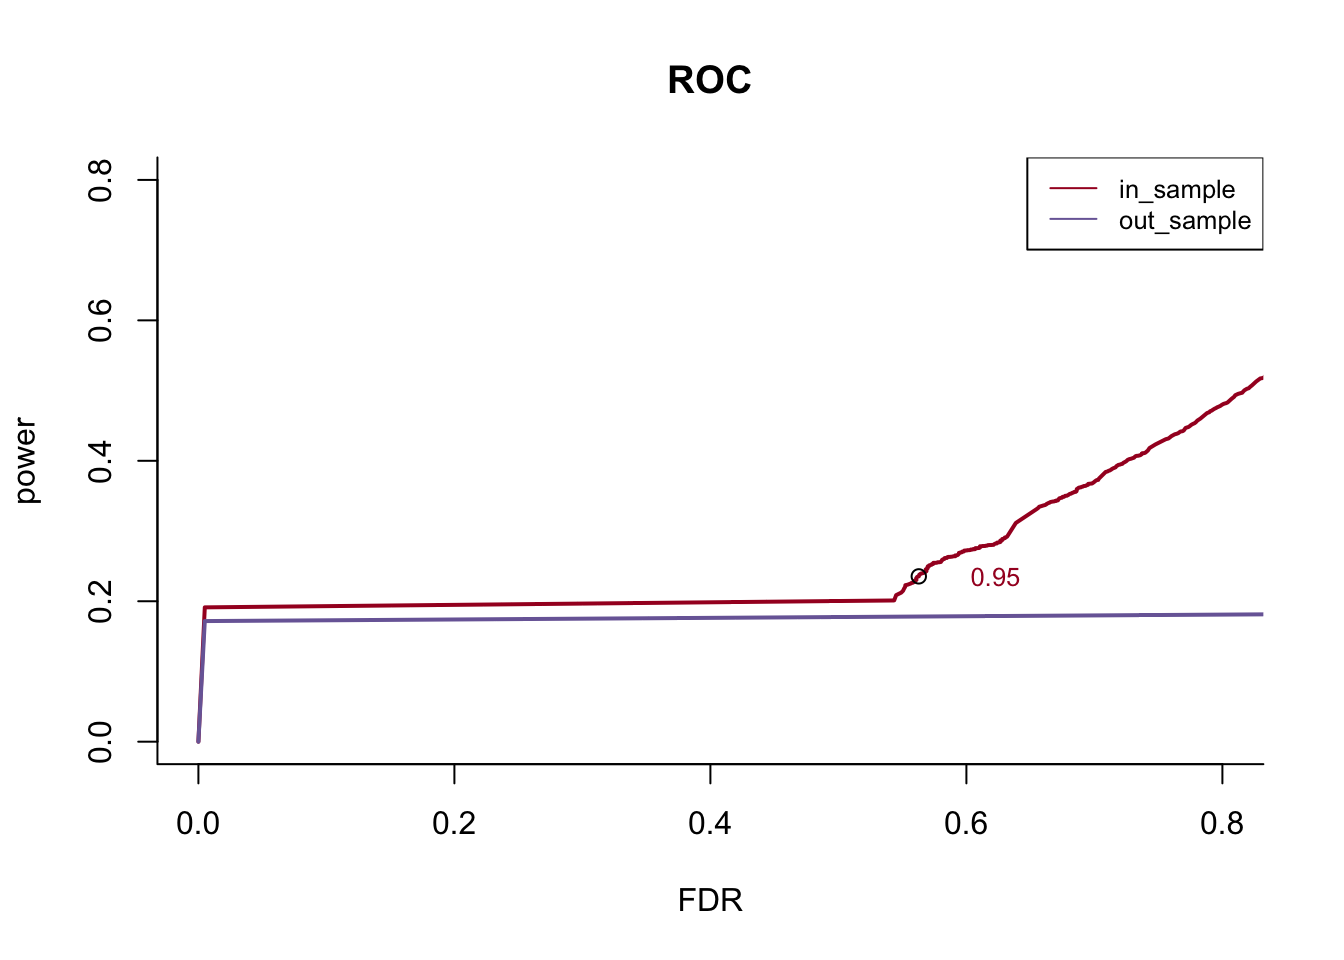
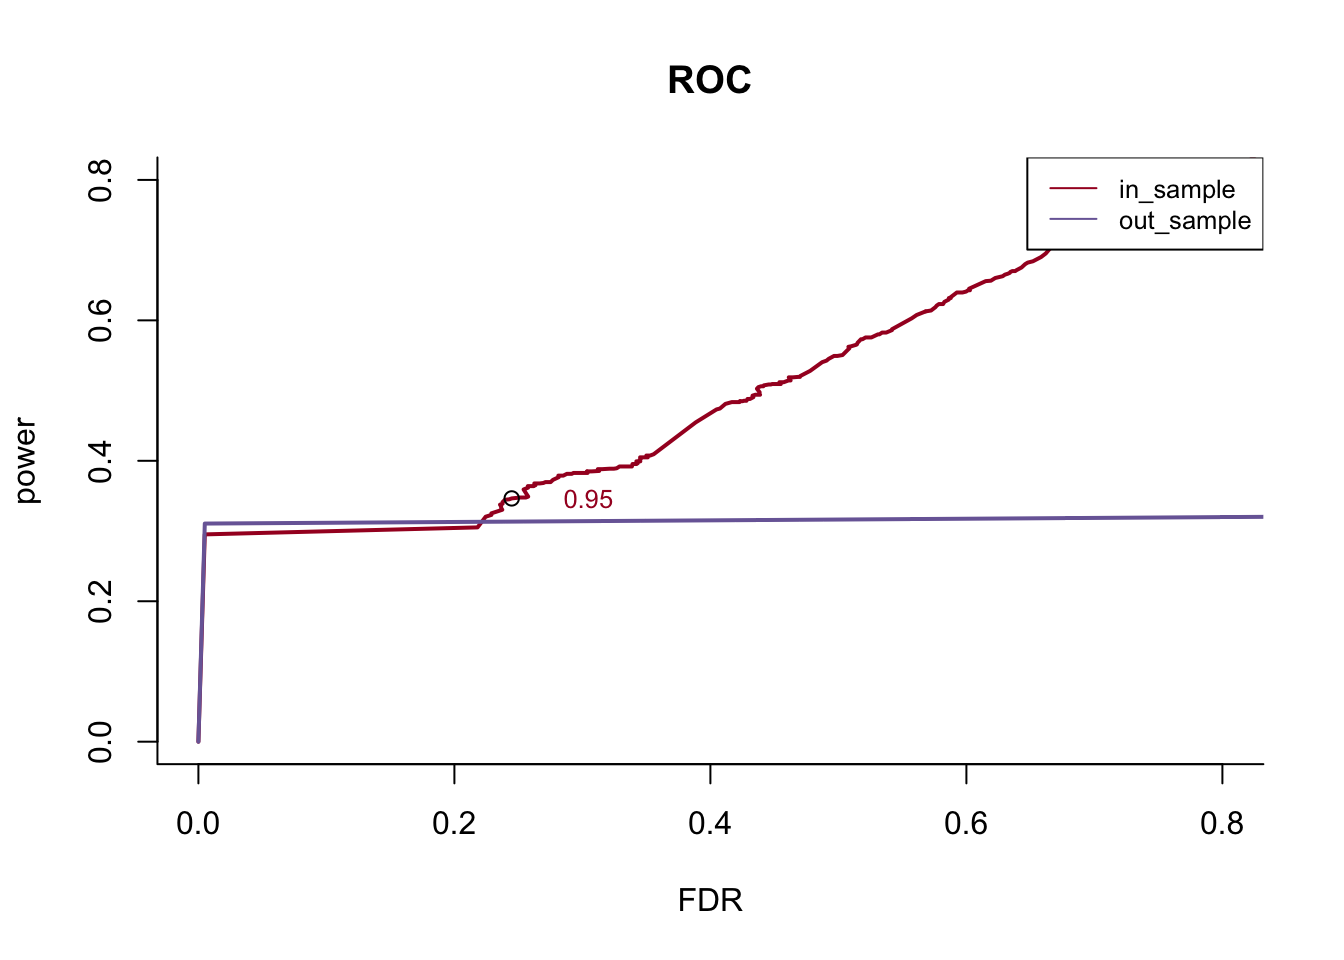
Build site.

diff --git a/docs/r_compare_susieb_ROC.html b/docs/r_compare_susieb_ROC.html
@@ -460,7 +460,7 @@ div.section {
 </details>
 </li>
 <li>
-<p><details> <summary> <strong style="color:blue;">✔</strong> <strong>Repository version:</strong> <a href="https://github.com/zouyuxin/dsc-susie-z/tree/c37add9f4b0fc8d2680950e6deae7c7e7c7fd239" target="_blank">c37add9</a> </summary></p>
+<p><details> <summary> <strong style="color:blue;">✔</strong> <strong>Repository version:</strong> <a href="https://github.com/zouyuxin/dsc-susie-z/tree/e5fce45c623ea82064c0baa0f5725b81efa383f7" target="_blank">e5fce45</a> </summary></p>
 Great! You are using Git for version control. Tracking code development and connecting the code version to the results is critical for reproducibility. The version displayed above was the version of the Git repository at the time these results were generated. <br><br> Note that you need to be careful to ensure that all relevant files for the analysis have been committed to Git prior to generating the results (you can use <code>wflow_publish</code> or <code>wflow_git_commit</code>). workflowr only checks the R Markdown file, but you know if there are other scripts or data files that it depends on. Below is the status of the Git repository when the results were generated:
 <pre><code>
 Ignored files:
@@ -490,7 +490,6 @@ Untracked files:
     Untracked:  data/small_data_69.ld_out_file.out.ld
     Untracked:  data/small_data_69_sim_gaussian_3.rds
     Untracked:  data/small_data_69_sim_gaussian_3_get_sumstats_1.rds
-    Untracked:  docs/figure/r_compare_finemap.Rmd/
     Untracked:  docs/figure/test.Rmd/
     Untracked:  figure/
     Untracked:  output/dscoutProblem475.rds
@@ -552,6 +551,40 @@ Message
 Rmd
 </td>
 <td style="text-align:left;">
+<a href="https://github.com/zouyuxin/dsc-susie-z/blob/e5fce45c623ea82064c0baa0f5725b81efa383f7/analysis/r_compare_susieb_ROC.Rmd" target="_blank">e5fce45</a>
+</td>
+<td style="text-align:left;">
+zouyuxin
+</td>
+<td style="text-align:left;">
+2019-04-15
+</td>
+<td style="text-align:left;">
+wflow_publish(c(“analysis/r_compare_susieb_ROC.Rmd”, “analysis/r_compare_susierss_ROC.Rmd”))
+</td>
+</tr>
+<tr>
+<td style="text-align:left;">
+html
+</td>
+<td style="text-align:left;">
+<a href="https://cdn.rawgit.com/zouyuxin/dsc-susie-z/c28dada96ebd2f7a2f1b9acb375a5b07f80cfc30/docs/r_compare_susieb_ROC.html" target="_blank">c28dada</a>
+</td>
+<td style="text-align:left;">
+zouyuxin
+</td>
+<td style="text-align:left;">
+2019-04-15
+</td>
+<td style="text-align:left;">
+Build site.
+</td>
+</tr>
+<tr>
+<td style="text-align:left;">
+Rmd
+</td>
+<td style="text-align:left;">
 <a href="https://github.com/zouyuxin/dsc-susie-z/blob/c37add9f4b0fc8d2680950e6deae7c7e7c7fd239/analysis/r_compare_susieb_ROC.Rmd" target="_blank">c37add9</a>
 </td>
 <td style="text-align:left;">
@@ -577,6 +610,7 @@ Attaching package: &#39;cowplot&#39;</code></pre>
 <pre><code>The following object is masked from &#39;package:ggplot2&#39;:
 
     ggsave</code></pre>
+<p>From previous result, we see FDR for cases with more than 1 signal is too high. Therefore, we only use the data with 1 signal here.</p>
 <pre class="r"><code>dscout = readRDS(&#39;output/r_compare_susiepip_tibble.rds&#39;)
 dscout$method = rep(NA, nrow(dscout))
 dscout$method[!is.na(dscout$susie_z.ld_method)] = &#39;susie_rss&#39;
@@ -591,14 +625,9 @@ colnames(dscout) = c(&#39;DSC&#39;, &#39;meta&#39;, &#39;pve&#39;, &#39;n_signal
 <pre class="r"><code>dscout.susieb = dscout[dscout$method == &#39;susie_b&#39;,]
 dscout.equal.susieb = dscout.susieb[dscout.susieb$effect_weight == &#39;equal&#39;,]
 dscout.equal.susieb.suc = dscout.equal.susieb[!is.na(dscout.equal.susieb$converged),]
+dscout.equal.susieb.suc = dscout.equal.susieb.suc[dscout.equal.susieb.suc$n_signal ==1,]
 dscout.equal.susieb.suc.list = list(&#39;in_sample&#39; = dscout.equal.susieb.suc[dscout.equal.susieb.suc$ld_method == &#39;in_sample&#39;,],
-                                    &#39;out_sample&#39; = dscout.equal.susieb.suc[dscout.equal.susieb.suc$ld_method == &#39;out_sample&#39;,])
-
-dscout.susierss = dscout[dscout$method == &#39;susie_rss&#39;,]
-dscout.equal.susierss = dscout.susierss[dscout.susierss$effect_weight == &#39;equal&#39;,]
-dscout.equal.susierss.suc = dscout.equal.susierss[dscout.equal.susierss$converged==1,]
-dscout.equal.susierss.suc.list = list(&#39;in_sample&#39; = dscout.equal.susierss.suc[dscout.equal.susierss.suc$ld_method == &#39;in_sample&#39;,],
-                                      &#39;out_sample&#39; = dscout.equal.susierss.suc[dscout.equal.susierss.suc$ld_method == &#39;out_sample&#39;,])</code></pre>
+                                    &#39;out_sample&#39; = dscout.equal.susieb.suc[dscout.equal.susieb.suc$ld_method == &#39;out_sample&#39;,])</code></pre>
 <pre class="r"><code>dat.susieb = list(&#39;in_sample&#39;=matrix(NA, 0, 2), &#39;out_sample&#39;=matrix(NA, 0, 2))
 for(method in names(dat.susieb)){
   for(j in 1:nrow(dscout.equal.susieb.suc.list[[method]])){
@@ -608,18 +637,9 @@ for(method in names(dat.susieb)){
   colnames(dat.susieb[[method]]) = c(&#39;pip&#39;, &#39;truth&#39;)
 }
 
-dat.susierss = list(&#39;in_sample&#39;=matrix(NA, 0, 2), &#39;out_sample&#39;=matrix(NA, 0, 2))
-for(method in names(dat.susierss)){
-  for(j in 1:nrow(dscout.equal.susierss.suc.list[[method]])){
-    datj = cbind(dscout.equal.susierss.suc.list[[method]]$pip[[j]], dscout.equal.susierss.suc.list[[method]]$meta[[j]]$true_coef)
-    dat.susierss[[method]] = rbind(dat.susierss[[method]], datj)
-  }
-  colnames(dat.susierss[[method]]) = c(&#39;pip&#39;, &#39;truth&#39;)
-}
-
-saveRDS(dat.susieb, &#39;output/r_compare_susieb_PIP_ROC.rds&#39;)
-saveRDS(dat.susierss, &#39;output/r_compare_susierss_PIP_ROC.rds&#39;)</code></pre>
-<pre class="r"><code>dat = readRDS(&#39;output/r_compare_susieb_PIP_ROC.rds&#39;)</code></pre>
+# saveRDS(dat.susieb, &#39;output/r_compare_susieb_PIP_ROC.rds&#39;)</code></pre>
+<pre class="r"><code># dat = readRDS(&#39;output/r_compare_susieb_PIP_ROC.rds&#39;)
+dat = dat.susieb</code></pre>
 <pre class="r"><code>bin_size = 20
 bins = cbind(seq(1:bin_size)/bin_size-1/bin_size, seq(1:bin_size)/bin_size)
 
@@ -658,7 +678,67 @@ for(Rtype in names(pip_cali)){
   g = dot_plot(pip_cali[[Rtype]]) + ggtitle(Rtype)
   print(g)
 }</code></pre>
-<p><img src="figure/r_compare_susieb_ROC.Rmd/unnamed-chunk-8-1.png" width="672" style="display: block; margin: auto;" /><img src="figure/r_compare_susieb_ROC.Rmd/unnamed-chunk-8-2.png" width="672" style="display: block; margin: auto;" /></p>
+<p><img src="figure/r_compare_susieb_ROC.Rmd/unnamed-chunk-8-1.png" width="672" style="display: block; margin: auto;" /></p>
+<details> <summary><em>Expand here to see past versions of unnamed-chunk-8-1.png:</em></summary>
+<table style="border-collapse:separate; border-spacing:5px;">
+<thead>
+<tr>
+<th style="text-align:left;">
+Version
+</th>
+<th style="text-align:left;">
+Author
+</th>
+<th style="text-align:left;">
+Date
+</th>
+</tr>
+</thead>
+<tbody>
+<tr>
+<td style="text-align:left;">
+<a href="https://github.com/zouyuxin/dsc-susie-z/blob/c28dada96ebd2f7a2f1b9acb375a5b07f80cfc30/docs/figure/r_compare_susieb_ROC.Rmd/unnamed-chunk-8-1.png" target="_blank">c28dada</a>
+</td>
+<td style="text-align:left;">
+zouyuxin
+</td>
+<td style="text-align:left;">
+2019-04-15
+</td>
+</tr>
+</tbody>
+</table>
+<p></details> <img src="figure/r_compare_susieb_ROC.Rmd/unnamed-chunk-8-2.png" width="672" style="display: block; margin: auto;" /></p>
+<details> <summary><em>Expand here to see past versions of unnamed-chunk-8-2.png:</em></summary>
+<table style="border-collapse:separate; border-spacing:5px;">
+<thead>
+<tr>
+<th style="text-align:left;">
+Version
+</th>
+<th style="text-align:left;">
+Author
+</th>
+<th style="text-align:left;">
+Date
+</th>
+</tr>
+</thead>
+<tbody>
+<tr>
+<td style="text-align:left;">
+<a href="https://github.com/zouyuxin/dsc-susie-z/blob/c28dada96ebd2f7a2f1b9acb375a5b07f80cfc30/docs/figure/r_compare_susieb_ROC.Rmd/unnamed-chunk-8-2.png" target="_blank">c28dada</a>
+</td>
+<td style="text-align:left;">
+zouyuxin
+</td>
+<td style="text-align:left;">
+2019-04-15
+</td>
+</tr>
+</tbody>
+</table>
+<p></details></p>
 </div>
 <div id="roc" class="section level2">
 <h2>ROC</h2>
@@ -733,6 +813,36 @@ for (method in names(roc)) {
 }
 legend(&quot;topright&quot;, legend=labels, col=colors[1:i], lty=c(1,1,1), cex=0.8)</code></pre>
 <p><img src="figure/r_compare_susieb_ROC.Rmd/unnamed-chunk-10-1.png" width="672" style="display: block; margin: auto;" /></p>
+<details> <summary><em>Expand here to see past versions of unnamed-chunk-10-1.png:</em></summary>
+<table style="border-collapse:separate; border-spacing:5px;">
+<thead>
+<tr>
+<th style="text-align:left;">
+Version
+</th>
+<th style="text-align:left;">
+Author
+</th>
+<th style="text-align:left;">
+Date
+</th>
+</tr>
+</thead>
+<tbody>
+<tr>
+<td style="text-align:left;">
+<a href="https://github.com/zouyuxin/dsc-susie-z/blob/c28dada96ebd2f7a2f1b9acb375a5b07f80cfc30/docs/figure/r_compare_susieb_ROC.Rmd/unnamed-chunk-10-1.png" target="_blank">c28dada</a>
+</td>
+<td style="text-align:left;">
+zouyuxin
+</td>
+<td style="text-align:left;">
+2019-04-15
+</td>
+</tr>
+</tbody>
+</table>
+<p></details></p>
 </div>
 <div id="session-information" class="section level2">
 <h2>Session information</h2>

diff --git a/docs/r_compare_susierss_ROC.html b/docs/r_compare_susierss_ROC.html
@@ -460,7 +460,7 @@ div.section {
 </details>
 </li>
 <li>
-<p><details> <summary> <strong style="color:blue;">✔</strong> <strong>Repository version:</strong> <a href="https://github.com/zouyuxin/dsc-susie-z/tree/c37add9f4b0fc8d2680950e6deae7c7e7c7fd239" target="_blank">c37add9</a> </summary></p>
+<p><details> <summary> <strong style="color:blue;">✔</strong> <strong>Repository version:</strong> <a href="https://github.com/zouyuxin/dsc-susie-z/tree/e5fce45c623ea82064c0baa0f5725b81efa383f7" target="_blank">e5fce45</a> </summary></p>
 Great! You are using Git for version control. Tracking code development and connecting the code version to the results is critical for reproducibility. The version displayed above was the version of the Git repository at the time these results were generated. <br><br> Note that you need to be careful to ensure that all relevant files for the analysis have been committed to Git prior to generating the results (you can use <code>wflow_publish</code> or <code>wflow_git_commit</code>). workflowr only checks the R Markdown file, but you know if there are other scripts or data files that it depends on. Below is the status of the Git repository when the results were generated:
 <pre><code>
 Ignored files:
@@ -490,8 +490,6 @@ Untracked files:
     Untracked:  data/small_data_69.ld_out_file.out.ld
     Untracked:  data/small_data_69_sim_gaussian_3.rds
     Untracked:  data/small_data_69_sim_gaussian_3_get_sumstats_1.rds
-    Untracked:  docs/figure/r_compare_finemap.Rmd/
-    Untracked:  docs/figure/r_compare_susieb_ROC.Rmd/
     Untracked:  docs/figure/test.Rmd/
     Untracked:  figure/
     Untracked:  output/dscoutProblem475.rds
@@ -553,6 +551,40 @@ Message
 Rmd
 </td>
 <td style="text-align:left;">
+<a href="https://github.com/zouyuxin/dsc-susie-z/blob/e5fce45c623ea82064c0baa0f5725b81efa383f7/analysis/r_compare_susierss_ROC.Rmd" target="_blank">e5fce45</a>
+</td>
+<td style="text-align:left;">
+zouyuxin
+</td>
+<td style="text-align:left;">
+2019-04-15
+</td>
+<td style="text-align:left;">
+wflow_publish(c(“analysis/r_compare_susieb_ROC.Rmd”, “analysis/r_compare_susierss_ROC.Rmd”))
+</td>
+</tr>
+<tr>
+<td style="text-align:left;">
+html
+</td>
+<td style="text-align:left;">
+<a href="https://cdn.rawgit.com/zouyuxin/dsc-susie-z/c28dada96ebd2f7a2f1b9acb375a5b07f80cfc30/docs/r_compare_susierss_ROC.html" target="_blank">c28dada</a>
+</td>
+<td style="text-align:left;">
+zouyuxin
+</td>
+<td style="text-align:left;">
+2019-04-15
+</td>
+<td style="text-align:left;">
+Build site.
+</td>
+</tr>
+<tr>
+<td style="text-align:left;">
+Rmd
+</td>
+<td style="text-align:left;">
 <a href="https://github.com/zouyuxin/dsc-susie-z/blob/c37add9f4b0fc8d2680950e6deae7c7e7c7fd239/analysis/r_compare_susierss_ROC.Rmd" target="_blank">c37add9</a>
 </td>
 <td style="text-align:left;">
@@ -578,7 +610,35 @@ Attaching package: &#39;cowplot&#39;</code></pre>
 <pre><code>The following object is masked from &#39;package:ggplot2&#39;:
 
     ggsave</code></pre>
-<pre class="r"><code>dat = readRDS(&#39;output/r_compare_susierss_PIP_ROC.rds&#39;)</code></pre>
+<p>We only use the data with 1 signal.</p>
+<pre class="r"><code>dscout = readRDS(&#39;output/r_compare_susiepip_tibble.rds&#39;)
+dscout$method = rep(NA, nrow(dscout))
+dscout$method[!is.na(dscout$susie_z.ld_method)] = &#39;susie_rss&#39;
+dscout$method[!is.na(dscout$susie_bhat.ld_method)] = &#39;susie_b&#39;
+
+dscout$ld_method = dscout$susie_bhat.ld_method
+dscout$ld_method[!is.na(dscout$susie_z.ld_method)] = dscout$susie_z.ld_method[!is.na(dscout$susie_z.ld_method)]
+dscout = dscout[,-c(6,8,9)]
+dscout$sim_gaussian.effect_weight[which(dscout$sim_gaussian.effect_weight == &#39;rep(1/n_signal, n_signal)&#39;)] = &#39;equal&#39;
+dscout$sim_gaussian.effect_weight[which(dscout$sim_gaussian.effect_weight != &#39;equal&#39;)] = &#39;notequal&#39;
+colnames(dscout) = c(&#39;DSC&#39;, &#39;meta&#39;, &#39;pve&#39;, &#39;n_signal&#39;, &#39;effect_weight&#39;, &#39;N_in&#39;, &#39;converged&#39;, &#39;pip&#39;, &#39;method&#39;, &#39;ld_method&#39;)</code></pre>
+<pre class="r"><code>dscout.susierss = dscout[dscout$method == &#39;susie_rss&#39;,]
+dscout.equal.susierss = dscout.susierss[dscout.susierss$effect_weight == &#39;equal&#39;,]
+dscout.equal.susierss.suc = dscout.equal.susierss[dscout.equal.susierss$converged==1,]
+dscout.equal.susierss.suc = dscout.equal.susierss.suc[dscout.equal.susierss.suc$n_signal ==1,]
+dscout.equal.susierss.suc.list = list(&#39;in_sample&#39; = dscout.equal.susierss.suc[dscout.equal.susierss.suc$ld_method == &#39;in_sample&#39;,],
+                                      &#39;out_sample&#39; = dscout.equal.susierss.suc[dscout.equal.susierss.suc$ld_method == &#39;out_sample&#39;,])</code></pre>
+<pre class="r"><code>dat.susierss = list(&#39;in_sample&#39;=matrix(NA, 0, 2), &#39;out_sample&#39;=matrix(NA, 0, 2))
+for(method in names(dat.susierss)){
+  for(j in 1:nrow(dscout.equal.susierss.suc.list[[method]])){
+    datj = cbind(dscout.equal.susierss.suc.list[[method]]$pip[[j]], dscout.equal.susierss.suc.list[[method]]$meta[[j]]$true_coef)
+    dat.susierss[[method]] = rbind(dat.susierss[[method]], datj)
+  }
+  colnames(dat.susierss[[method]]) = c(&#39;pip&#39;, &#39;truth&#39;)
+}
+# saveRDS(dat.susierss, &#39;output/r_compare_susierss_PIP_ROC.rds&#39;)</code></pre>
+<pre class="r"><code># dat = readRDS(&#39;output/r_compare_susierss_PIP_ROC.rds&#39;)
+dat = dat.susierss</code></pre>
 <pre class="r"><code>bin_size = 20
 bins = cbind(seq(1:bin_size)/bin_size-1/bin_size, seq(1:bin_size)/bin_size)
 
@@ -617,7 +677,7 @@ for(Rtype in names(pip_cali)){
   g = dot_plot(pip_cali[[Rtype]]) + ggtitle(Rtype)
   print(g)
 }</code></pre>
-<p><img src="figure/r_compare_susierss_ROC.Rmd/unnamed-chunk-5-1.png" width="672" style="display: block; margin: auto;" /><img src="figure/r_compare_susierss_ROC.Rmd/unnamed-chunk-5-2.png" width="672" style="display: block; margin: auto;" /></p>
+<p><img src="figure/r_compare_susierss_ROC.Rmd/unnamed-chunk-8-1.png" width="672" style="display: block; margin: auto;" /><img src="figure/r_compare_susierss_ROC.Rmd/unnamed-chunk-8-2.png" width="672" style="display: block; margin: auto;" /></p>
 </div>
 <div id="roc" class="section level2">
 <h2>ROC</h2>
@@ -691,7 +751,7 @@ for (method in names(roc)) {
   i = i + 1
 }
 legend(&quot;topright&quot;, legend=labels, col=colors[1:i], lty=c(1,1,1), cex=0.8)</code></pre>
-<p><img src="figure/r_compare_susierss_ROC.Rmd/unnamed-chunk-7-1.png" width="672" style="display: block; margin: auto;" /></p>
+<p><img src="figure/r_compare_susierss_ROC.Rmd/unnamed-chunk-10-1.png" width="672" style="display: block; margin: auto;" /></p>
 </div>
 <div id="session-information" class="section level2">
 <h2>Session information</h2>
